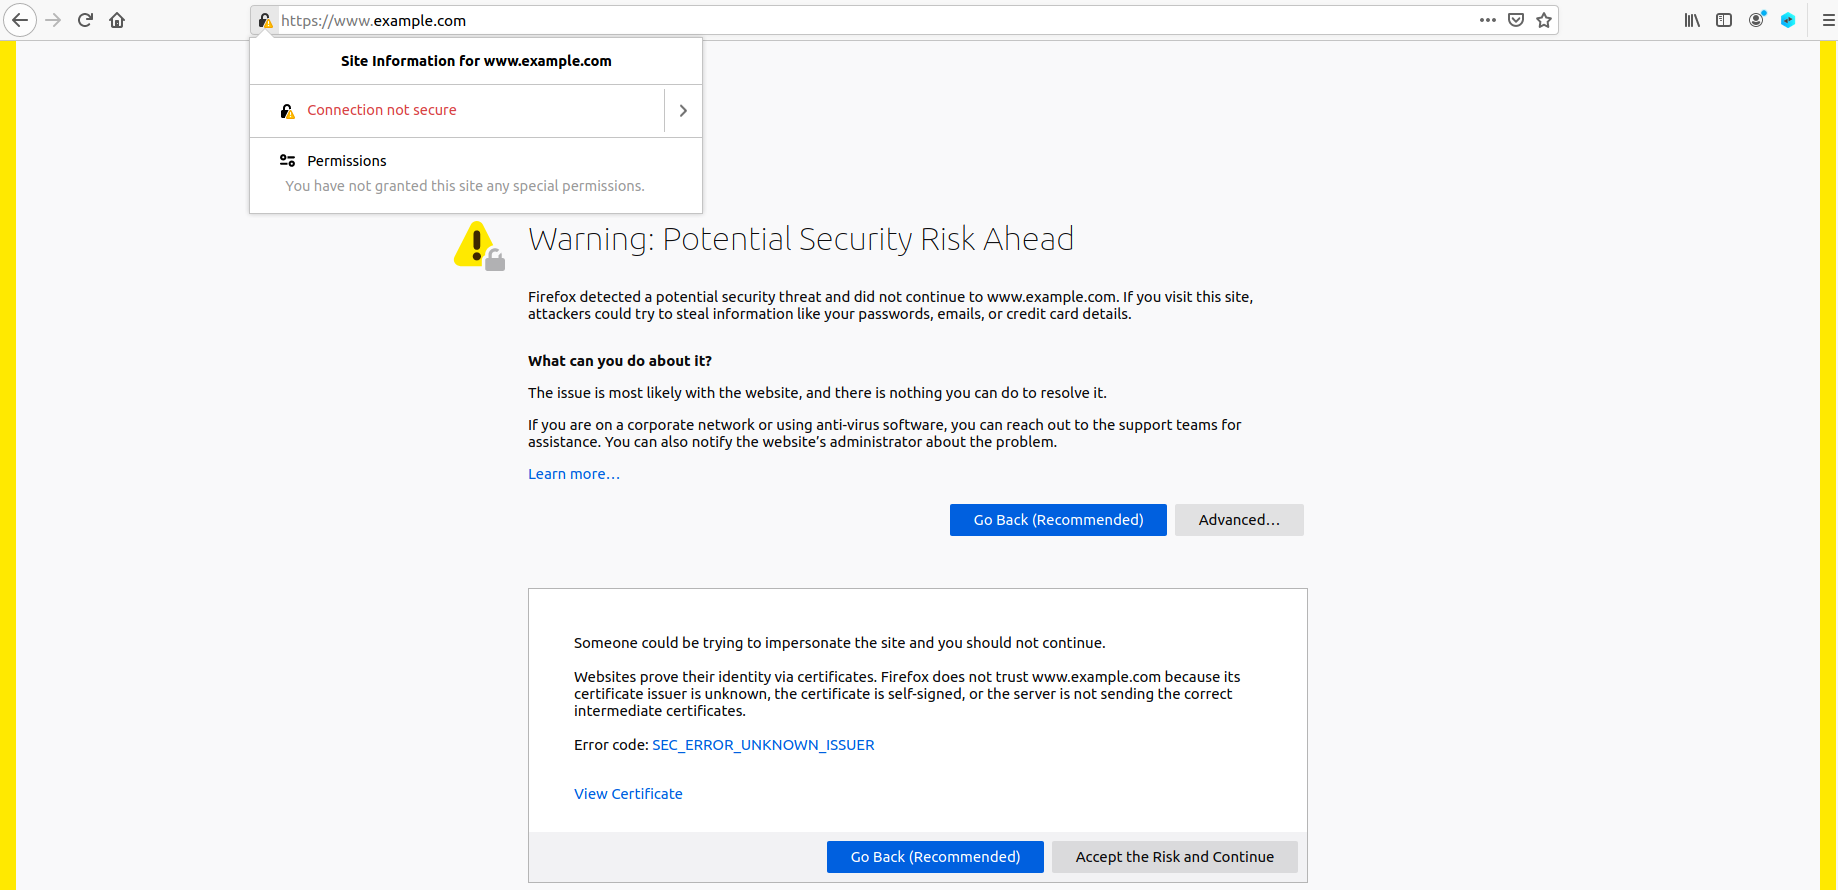
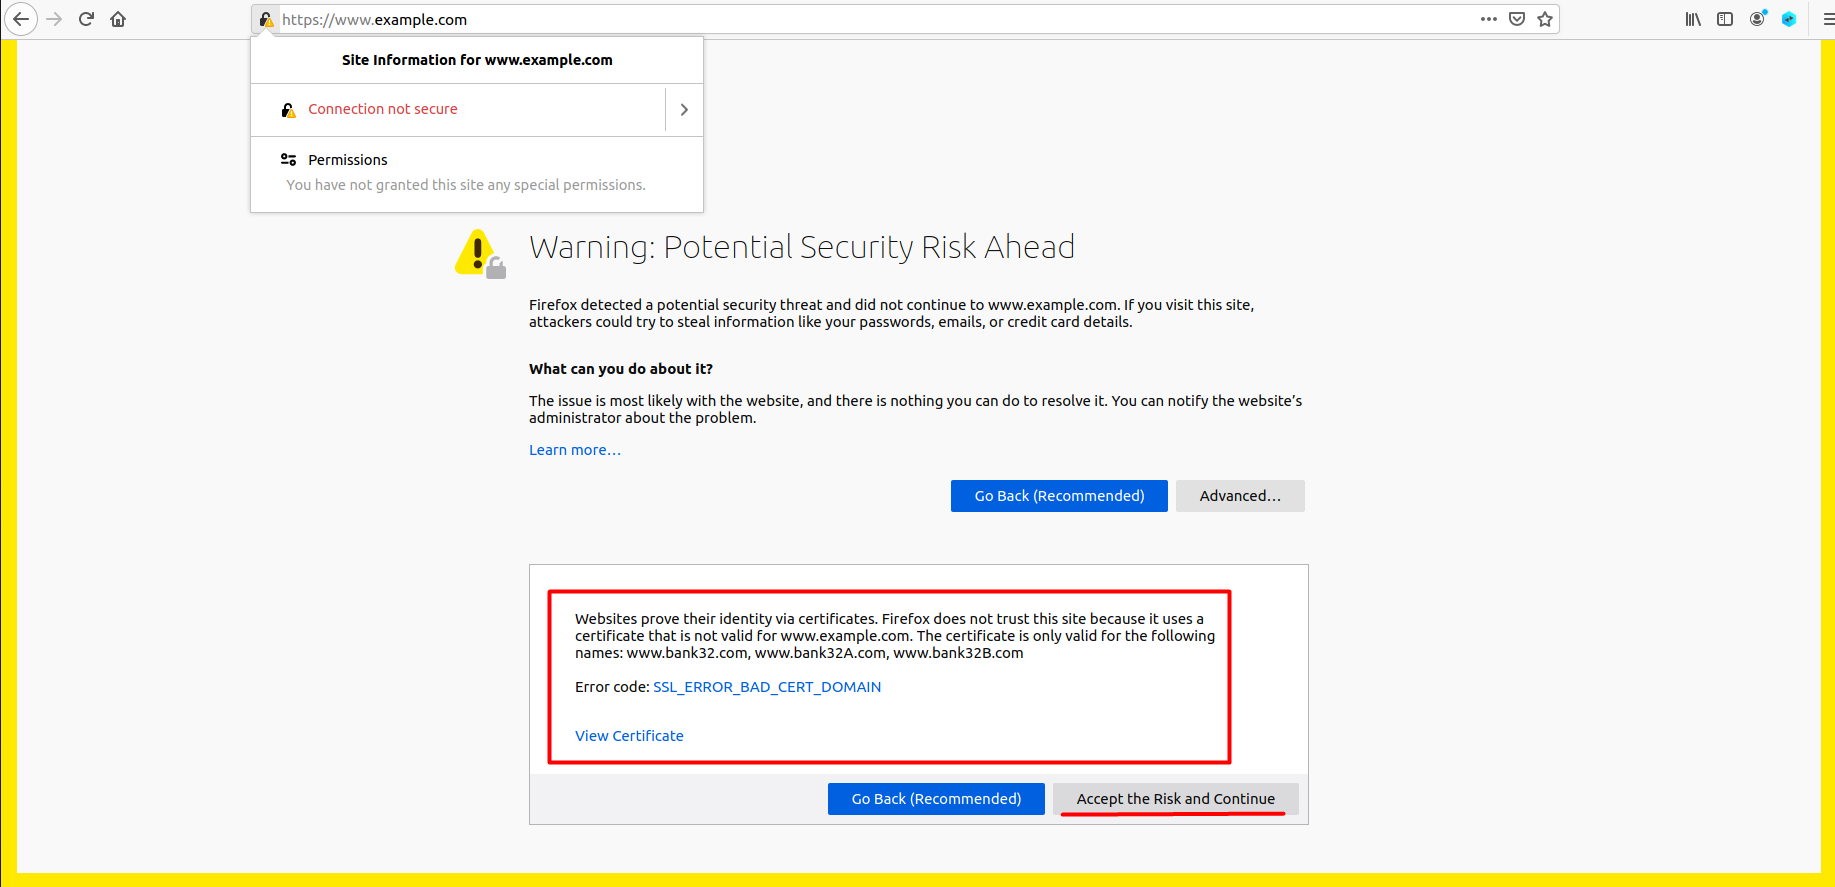
Lab 11 Done

diff --git a/LOGBOOKS/LOGBOOK11.md b/LOGBOOKS/LOGBOOK11.md
@@ -155,10 +155,17 @@ Isto deve-se à incoerência do certificado usado, porque o nome de dominio não
 
 ## Task 6 - Launching a Man-In-The-Middle Attack with a Compromised CA
 
-Admitindo que o nosso CA está comprometido, pode ser usado para criar certificados para um site malicioso. No caso, queremos criar um certificado para o site `www.example.com`, por isso repetimos o comando da Tarefa 2:
+Admitindo que o nosso CA está comprometido, pode ser usado para criar certificados para um site malicioso. No caso, queremos criar um certificado para o site `www.example.com`, por isso repetimos os comandos da Tarefa 2:
 
 ```bash
 $ openssl req -newkey rsa:2048 -sha256 -keyout example.key -out example.csr -subj "/CN=www.example.com/O=example Inc./C=US" -passout pass:1234
+$ openssl ca -config openssl.cnf -policy policy_anything -md sha256 -days 3650 -in example.csr -out example.crt -batch -cert ca.crt -keyfile ca.key
 ```
 
-Depois 
+Depois modificamos o ficheiro de configuração do servidor `etc/apache2/sites-available/bank32_apache_ssl.conf` para utilizar os dois ficheiros originados: **example.csr** e **example.key**:
+
+![Man in the middle attack 3](../img/lab11task6a.png)
+
+Ao dar reiniciar o servidor e ir ao site `www.example.com` verificamos que a ligação já era segura. 
+
+![Man in the middle attack 4](../img/lab11task6b.png)
